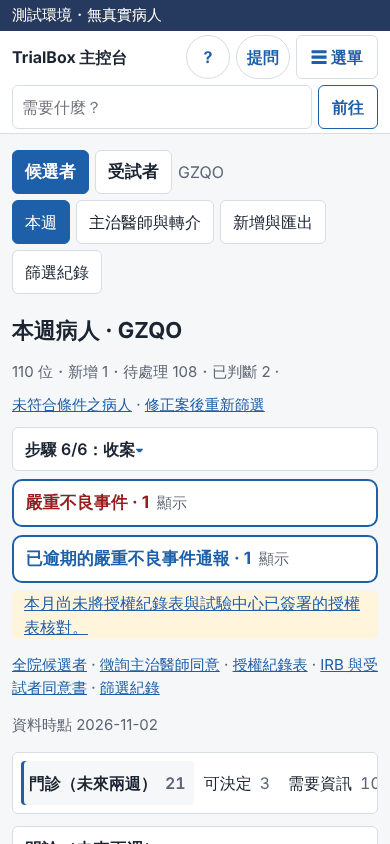
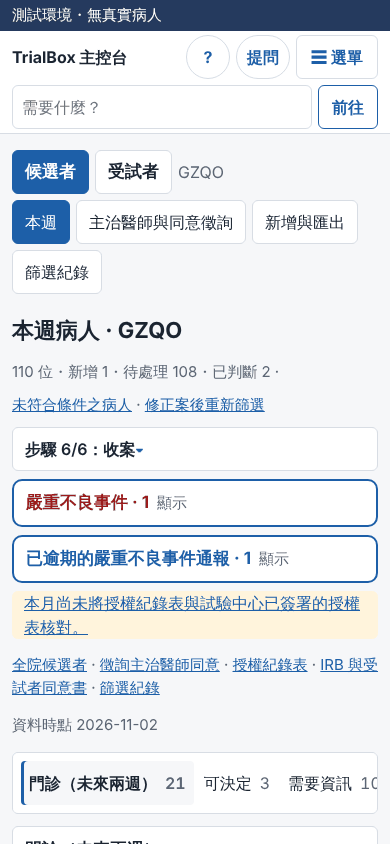
J-5: the decision names the gate; screenshots with the catalogue's words
Claude-Session: https://claude.ai/code/session_018wvf8cej6h87TNNP7aSkNV

Changed region(s): [[0.4308, 0.2464, 0.8923, 0.2773]]

diff --git a/trialbox/docs/decisions/D-1223-two-lists-of-people.md b/trialbox/docs/decisions/D-1223-two-lists-of-people.md
@@ -21,12 +21,18 @@
     same audit events, the same forms, links and filters. So no role reads or does anything it did not before, and a
     role refused an old list is refused its view with the same answer. The old pages' templates are not changed; the
     strip is added above them.
-  - **Every old address redirects** (GET, 303) to its view with its query kept; a form posts where it posted before;
+  - **Every old address redirects** (GET, 303) to its view with its query kept, **for a reader its route lets in**.
+    Anyone else (no session, an ended one, a role the route refuses) reaches the old route and gets its answer and
+    its audit event there, as before: a gate reads the session without counting it as activity, makes no sign-in,
+    audits nothing and asks the strip's questions. So the role walks see the same refusals with the flag on. A form
+    posts where it posted before;
     a file (`.xlsx`, `.csv`), an action route and a person's own page keep their address. The view is in the path,
     so a page's relative filter links (`?list=`, `?show=`) stay in their view.
   - **One strip** above each view names the two lists and the views of the list shown, each only where the role may
     open it. The strip asks the questions the routes ask (the `phi.view` row and the delegation log; the `screen`
-    task; the registry's rule) as a yes or no, with no audit event and no patient read. From the menu: the list's
+    task; the registry's declared row, `phi.view` and `task.screen`) as a yes or no, with no audit event and no
+    patient read. The steward and the privacy office, who read the study registry page's counts without patient
+    rows, are offered no list: that page answers them at its address as before. From the menu: the list's
     first page (one step), a view (the second); every action of an old list is on its view.
   - **The menu** shows Candidates and Participants where it showed "This week's patients" and "Candidate registry"
     (the investigator's and the coordinator's top items; the study's own pages under More). `/people/candidates` and
